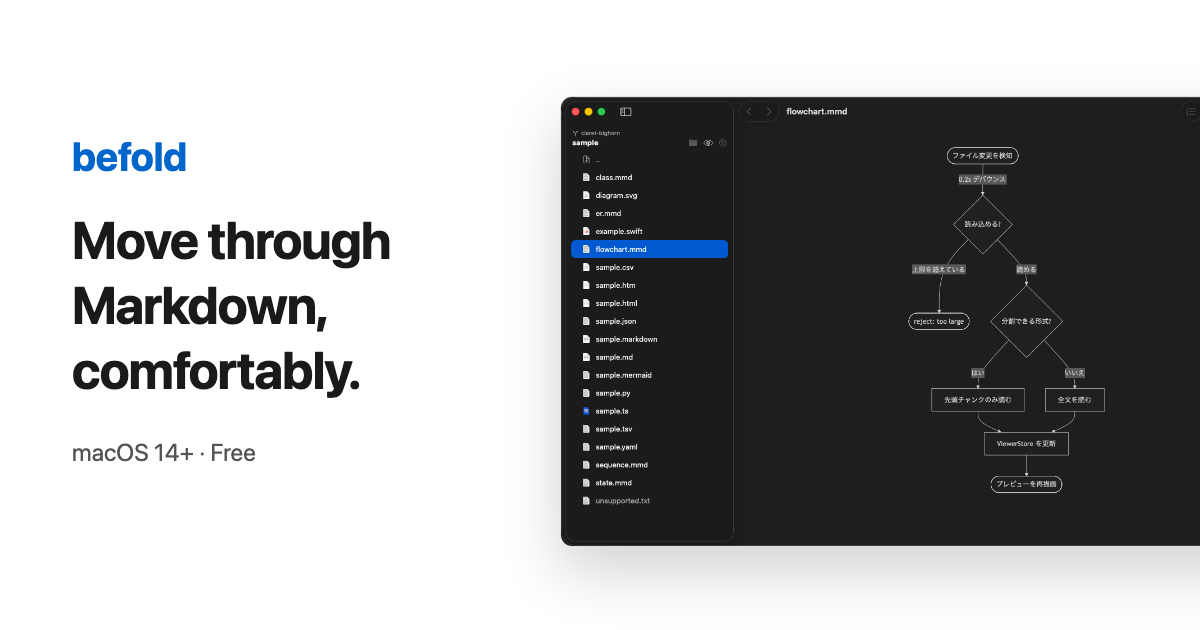
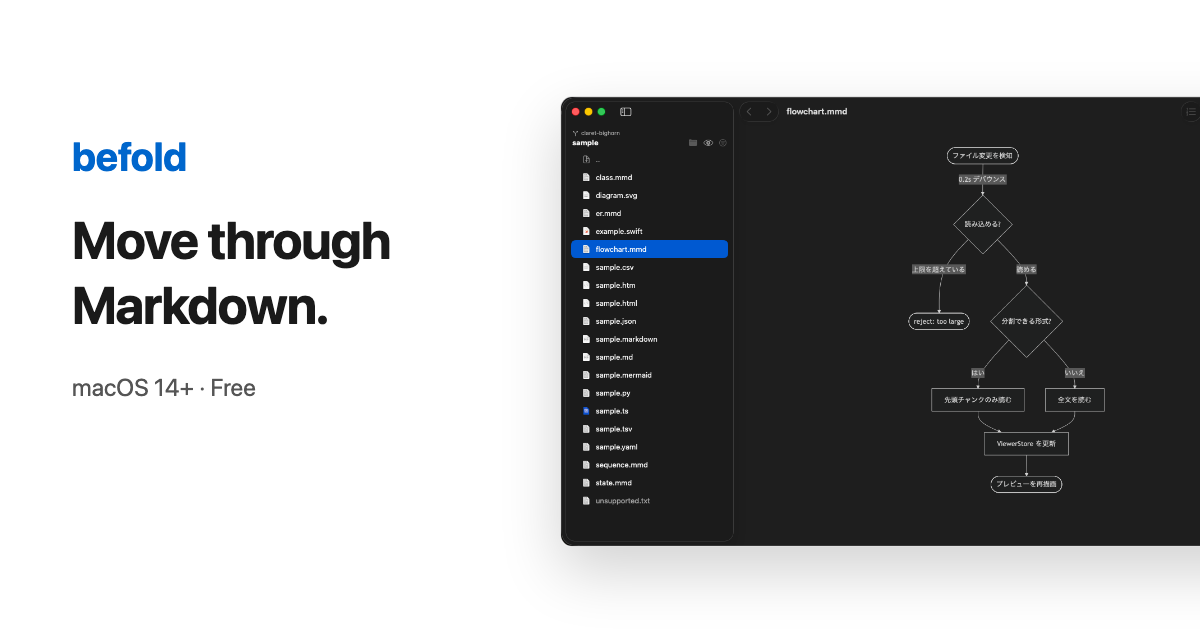
fix: OGP 画像のタグラインを2行に収まる長さに短縮する
Claude-Session: https://claude.ai/code/session_0127No3KZK8jiBkWur7C6VBo

Changed region(s): [[0.0617, 0.5429, 0.3083, 0.6333], [0.0617, 0.6937, 0.2158, 0.754]]

diff --git a/site/tools/ogp-template.html b/site/tools/ogp-template.html
@@ -49,7 +49,7 @@
 </style>
 <div class="copy">
   <div class="name">befold</div>
-  <div class="tagline">Move through Markdown, comfortably.</div>
+  <div class="tagline">Move through Markdown.</div>
   <div class="meta">macOS 14+ · Free</div>
 </div>
 <img class="shot" src="../public/images/screenshot-1.png" alt="" />
